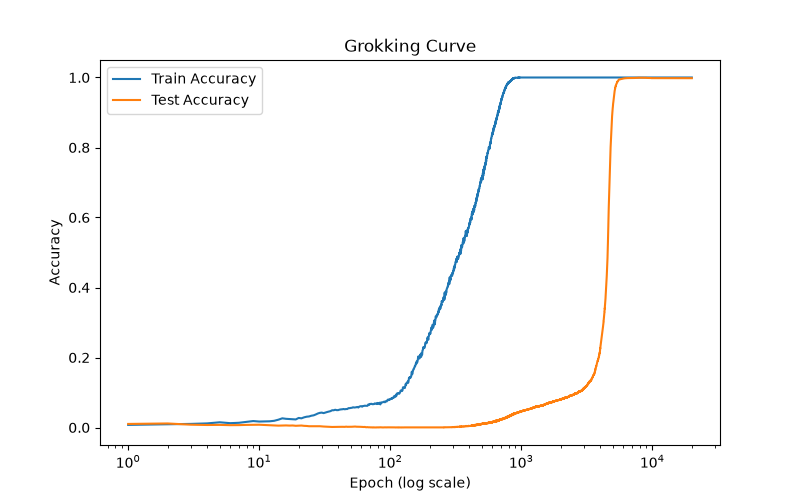
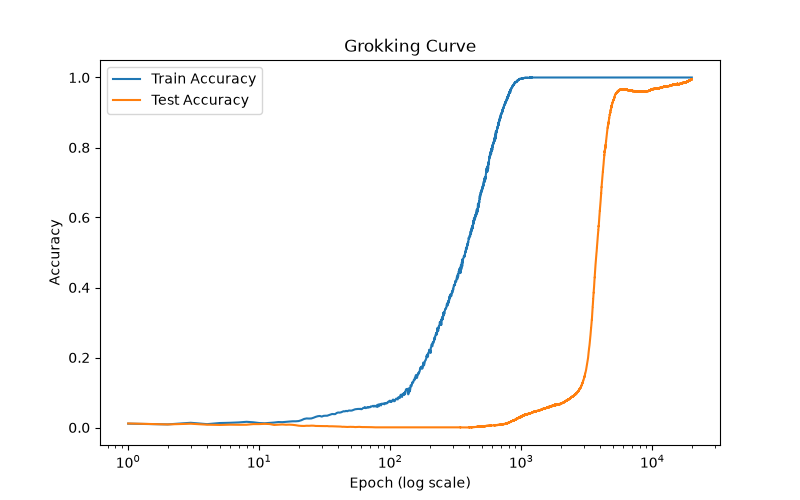
Add L2 Norm predictor, verify MPS device pipeline, close Phase 1
- src/predictors/l2_norm.py: compute_l2_norm(model), accumulates squared
  param norms then sqrt, matches accumulator pattern already used for
  train/test accuracy in train.py.
- train.py: track l2_norm_history per epoch; plot alongside grokking curve.
- Wire model + batch tensors to torch.device("mps") in train.py; fix
  transformer.py's arange() defaulting to CPU (device mismatch with
  embeddings moved to mps).
- Verified full 20000-epoch run on MPS reproduces the same grokking curve
  and L2 norm decay/wobble pattern seen on CPU.
- Gantt Phase 1 fully closed (repo setup, MPS pipeline verified, Nanda
  grokking gate).
- Update context.md with session summary.

diff --git a/src/train.py b/src/train.py
@@ -1,12 +1,17 @@
 import matplotlib.pyplot as plt
+import torch
 from torch import nn
 from torch.optim import AdamW
 
 from data.modular_arithmetic import get_dataloaders
 from models.transformer import Transformer
+from predictors.l2_norm import compute_l2_norm
+
+device = torch.device("mps" if torch.backends.mps.is_available() else "cpu")
+print("Device:", device)
 
 data_loader = get_dataloaders(97, batch_size=int(0.3 * 97 * 97))
-model = Transformer(vocab_size=98, d_model=128)
+model = Transformer(vocab_size=98, d_model=128).to(device)
 optimizer = AdamW(model.parameters(), lr=1e-3, weight_decay=1.0)
 
 print("Optimizer:", optimizer)
@@ -16,11 +21,13 @@ num_epochs = 20000
 train_acc_history = []
 test_acc_history = []
 loss_history = []
+l2_norm_history = []
 
 for epoch in range(num_epochs):
     total_correct = 0
     total_samples = 0
     for x, y in data_loader[0]:
+        x, y = x.to(device), y.to(device)
         logit = model.forward(x)
         equal_sign_logit = logit[:, 2, :]
 
@@ -38,6 +45,7 @@ for epoch in range(num_epochs):
     test_total_samples = 0
         
     for x_test, y_test in data_loader[1]:
+        x_test, y_test = x_test.to(device), y_test.to(device)
         logit_test = model.forward(x_test)
         equal_sign_logit_test = logit_test[:, 2, :]
         predicted_test = equal_sign_logit_test.argmax(dim=1)
@@ -47,9 +55,12 @@ for epoch in range(num_epochs):
     train_acc_history.append(total_correct / total_samples)
     test_acc_history.append(test_total_correct / test_total_samples)
     loss_history.append(loss.item())
-
     if (epoch + 1) % 100 == 0:
         print(f"Epoch {epoch + 1}: Loss = {loss_history[-1]}, Train Acc = {train_acc_history[-1]}, Test Acc = {test_acc_history[-1]}")
+
+    
+    l2_norm = compute_l2_norm(model)
+    l2_norm_history.append(l2_norm)
 
 plt.figure(figsize=(8, 5))
 plt.plot(range(1, num_epochs + 1), train_acc_history, label="Train Accuracy")
@@ -60,4 +71,13 @@ plt.ylabel("Accuracy")
 plt.title("Grokking Curve")
 plt.legend()
 plt.savefig("grokking_curve.png")
+plt.figure(figsize=(8, 5))
+plt.plot(range(1, num_epochs + 1), l2_norm_history, label="L2 Norm")
+plt.xscale("log")
+plt.xlabel("Epoch (log scale)")
+plt.ylabel("L2 Norm")
+plt.title("Weight Norm Over Training")
+plt.legend()
+plt.savefig("l2_norm_curve.png")
+
 plt.show()

diff --git a/generate_file.py b/generate_file.py
@@ -1,0 +1,24 @@
+from pathlib import Path
+
+# Path to the file you want to create
+file_path = Path("src/predictors/l2_norm.py")
+
+# Create parent directories if they don't exist
+file_path.parent.mkdir(parents=True, exist_ok=True)
+
+# Initial file contents
+content = '''"""
+L2 Norm Predictor
+
+This module implements the L2 norm predictor.
+"""
+
+# Add your implementation here
+'''
+
+# Write the file only if it doesn't already exist
+if not file_path.exists():
+    file_path.write_text(content, encoding="utf-8")
+    print(f"Created: {file_path}")
+else:
+    print(f"File already exists: {file_path}")

diff --git a/src/models/transformer.py b/src/models/transformer.py
@@ -21,7 +21,7 @@ class Transformer(nn.Module):
 
     def forward(self, x):
         token_vectors = self.token_embedding(x)
-        position_vectors = self.position_embedding(arange(x.size(1)))
+        position_vectors = self.position_embedding(arange(x.size(1), device=x.device))
         combined_vector = token_vectors + position_vectors
         query_vector = self.query(combined_vector)
         key_vector = self.key(combined_vector)

diff --git a/src/predictors/l2_norm.py b/src/predictors/l2_norm.py
@@ -1,0 +1,13 @@
+"""
+L2 Norm Predictor
+
+This module implements the L2 norm predictor.
+"""
+
+# Add your implementation here
+def compute_l2_norm(model):
+    squared_sum = 0.0
+    for param in model.parameters():
+        squared_sum += (param ** 2).sum().item()
+    l2_norm = squared_sum ** 0.5
+    return l2_norm

diff --git a/context.md b/context.md
@@ -1465,6 +1465,94 @@
 
 ---
 
+## Session Summary — July 10, 2026 (L2 Norm predictor built, MPS device verified, Phase 1 closed)
+
+- **`src/predictors/l2_norm.py` created** (new `src/predictors/` package, first predictor in the
+  9-predictor evaluation order). Scaffolded via a small one-off root-level script
+  `generate_file.py` (same pattern as the earlier `scaffold.py`), which just creates the file if it
+  doesn't already exist.
+  - `compute_l2_norm(model)` implemented (Jonathan wrote it, Claude reviewed 3 attempts):
+    1. First attempt took a single `tensor` and used `dim=-1` — wrong shape (per-row norm, not
+       whole-model norm) and wrong argument type (needed `model`, not one tensor).
+    2. Second attempt: correct accumulator pattern — loop over `model.parameters()`, accumulate
+       `(param ** 2).sum().item()` into `squared_sum`, single `** 0.5` at the end. Same
+       reset-before/accumulate-inside/finalize-after pattern already used for train/test accuracy in
+       `train.py`. Parameter still misleadingly named `tensor` though it's a model.
+    3. Third attempt: renamed parameter `tensor` → `model`. **Correct and final.**
+  - Current state:
+    ```python
+    def compute_l2_norm(model):
+        squared_sum = 0.0
+        for param in model.parameters():
+            squared_sum += (param ** 2).sum().item()
+        l2_norm = squared_sum ** 0.5
+        return l2_norm
+    ```
+- **`src/train.py` extended to track L2 norm over training:** `l2_norm_history = []` initialized
+  alongside the existing three histories (`train_acc_history`, `test_acc_history`, `loss_history`),
+  `compute_l2_norm(model)` called and appended once per epoch (outside the `if (epoch+1) % 100 == 0`
+  print block, so it runs every epoch, not just print epochs — Jonathan initially had this nested
+  under an `if epoch == 0: ... else: ...` branch and had to be told to simplify to match the existing
+  pattern: init once before the loop, plain `.append()` every epoch).
+- **Second plot added:** `l2_norm_curve.png` — L2 norm vs. epoch on the same log-x scale as the
+  grokking curve, saved via a second `plt.figure()` + `plt.savefig()` block before the final
+  `plt.show()`.
+- **Full 20000-epoch run observed (CPU, pre-MPS):** grokking curve reproduced again (train acc → 1.0
+  by ~epoch 800-1000, test acc flat near 0 until ~epoch 2000, sharp climb to ~1.0 by ~epoch 6500,
+  this run reached exact `Test Acc = 1.0` — even cleaner than the M1 run's 99.8% plateau). L2 norm
+  curve: smooth monotonic decay from ~115 (epoch 1) to ~38 (epoch 20000), with a small
+  dip-then-bump wobble (~63→66) around epoch 2000-4000 — right before/during the steep test-accuracy
+  climb. Consistent with the L2-norm-predictor hypothesis (norm shrinks ahead of/during the grok
+  transition), though not yet a formal "lead time" measurement — that requires an actual detection
+  rule (threshold on rate-of-change), flagged as the next real predictor task, not done yet.
+- **False alarm investigated and resolved:** `grokking_curve.png` appeared missing/stale after a run
+  (mtime not matching the new `l2_norm_curve.png`). Root cause was **not** a code bug — Jonathan had
+  accidentally deleted the file after the run and later restored it from trash (confirmed correct
+  mtime matching the same run once restored). A `python3 -c` isolated test with the `Agg` backend
+  confirmed the two-`plt.figure()`/two-`savefig()` pattern itself is correct and not fragile; the
+  earlier suggestion to switch to explicit `fig, ax = plt.subplots()` handles was **not applied** —
+  not needed, `plt.X` global-state calls work fine as originally written.
+- **MPS device support added and verified** (direct implementation by Claude, per Jonathan's explicit
+  request — "not a structural/conceptual change"):
+  - `src/train.py`: `device = torch.device("mps" if torch.backends.mps.is_available() else "cpu")`,
+    `model = Transformer(...).to(device)`, and every batch tensor (`x`/`y` in the train loop,
+    `x_test`/`y_test` in the test loop) moved via `.to(device)` before use.
+  - **Real bug found via smoke test, fixed in `src/models/transformer.py`:** `forward()`'s
+    `arange(x.size(1))` created its position-index tensor on CPU by default even when the model's
+    embeddings were on `mps` — device mismatch (`RuntimeError: Placeholder storage has not been
+    allocated on MPS device!`). Fixed: `arange(x.size(1), device=x.device)`.
+  - **Verified via 2-epoch smoke test** (throwaway `num_epochs` override, run headlessly), then a
+    **full 20000-epoch run on MPS**, confirmed same grokking curve shape (train→1.0 ~epoch 1000, test
+    lag then climb ~epoch 3000-6000) and same L2 norm decay/wobble pattern as the CPU runs — MPS
+    pipeline is now genuinely exercised, not just present in code.
+- **Gantt Phase 1 (`Thesis Gantt - Grokking Predictors Benchmark - Gantt.csv`) is now FULLY CLOSED:**
+  all 3 tasks done — (1) Git repo + env setup, (2) Transformer + MPS pipeline (now verified, not just
+  architecturally present), (3) Reproduce Nanda grokking GATE (closed in the prior session). Phase 1
+  had been sitting at ~2.5/3 (MPS unverified) since the M1 gate session; that gap is now closed.
+- **Draft email to Prof. Rashid prepared** (not yet sent — no email tool authorized this session,
+  Jonathan must send manually) reporting M1 gate closure: architecture/training summary, grokking
+  result, plot attachment (`grokking_curve.png`), and next step (Phase 3, L2 Norm predictor). The
+  previously pending "reply to Prof. Rashid's two questions" item (previous thesis topic + Jammu
+  clarification) was explicitly resolved by Jonathan outside this session ("I have dealt with it") —
+  **dropped from open items, do not resurface.**
+
+### Still Open / Next Steps (updated — July 10, 2026, Phase 1 closed)
+
+1. **Immediate next action:** send the drafted email to Prof. Rashid (M1 gate closure report) — draft
+   exists in this session's conversation, not yet sent.
+2. Continue L2 Norm predictor work: define an actual **detection rule** (e.g. threshold on the norm's
+   epoch-over-epoch rate of decline) and measure **lead time** (epochs between the rule firing and
+   the real test-accuracy jump) — this is what turns the norm curve into an actual "predictor," not
+   just an observed correlation. Ties directly to the later Gantt Phase 4 deliverable ("Leaderboard:
+   AUC + Lead Time").
+3. Once L2 Norm predictor is functionally complete: move to **Dropout** (next in the 9-predictor
+   evaluation order).
+4. (Optional, not blocking) investigate the ~99.8%-not-100% test accuracy plateau seen in the original
+   M1 run (this session's rerun reached exact 100%, so likely just run-to-run variance, not
+   investigated further).
+
+---
+
 ## Tools & Preferences
 
 | Tool | Preference |
